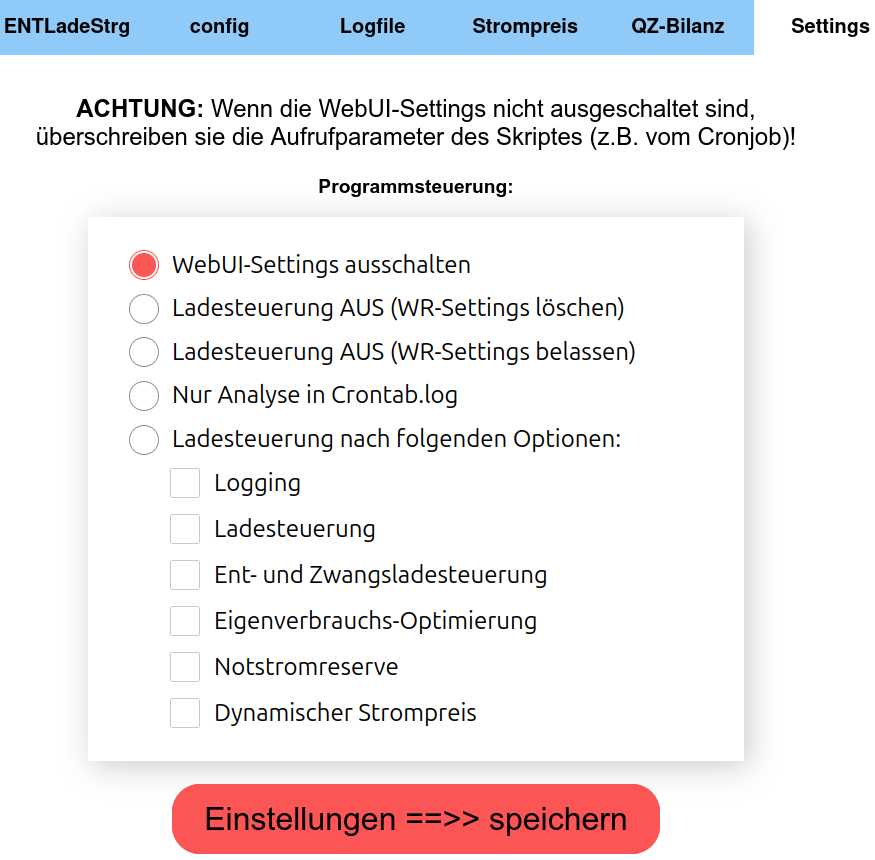
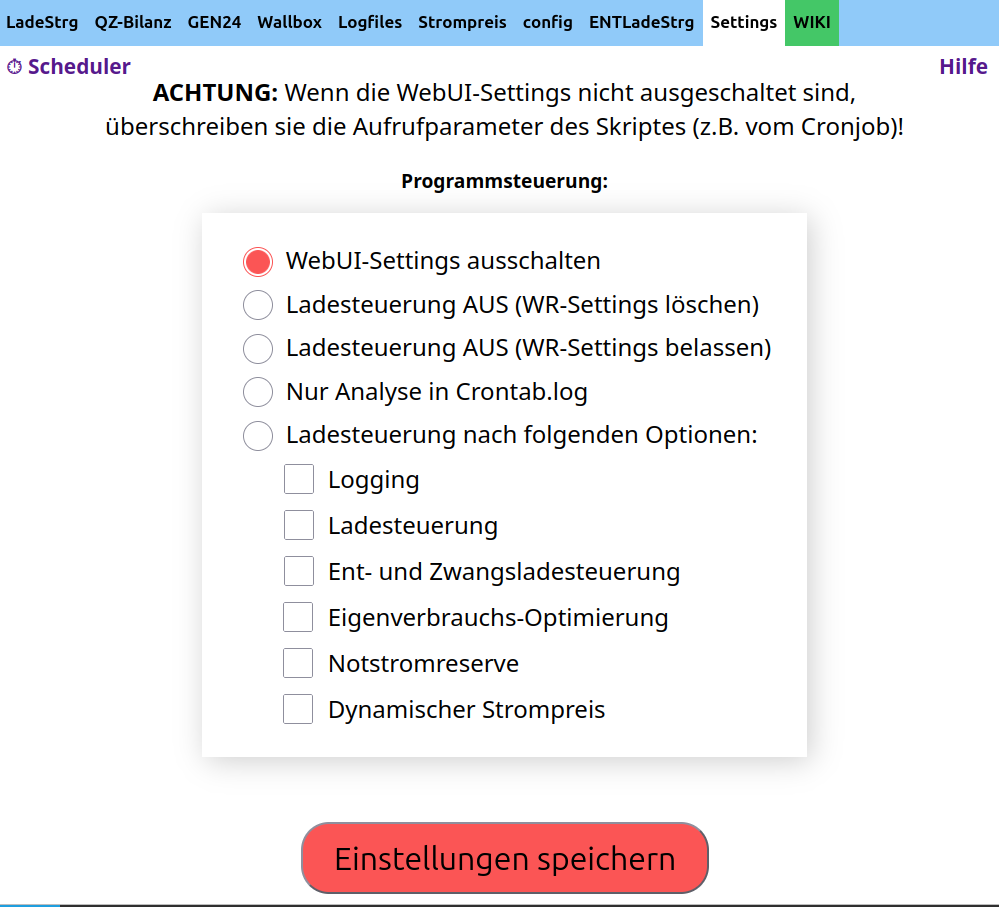
README Anpassung

diff --git a/docs/WIKI/Wallbox.html b/docs/WIKI/Wallbox.html
@@ -15,7 +15,7 @@
 <body lang="de-DE">
 <!--HIERZURUECK--><br>
 
-<p><span class="c1">TAB --&gt;&gt; Wallbox</span></p>
+<p><h2><span class="c1">TAB --&gt;&gt; Wallbox</span></h2></p>
 
 <p><strong>Stand: 20.04.2026<br></strong></p>
 

diff --git a/docs/README.md b/docs/README.md
@@ -43,15 +43,6 @@ Ab Version: **0.41.7**
 Ab Version: **0.41.0**  
 - 🚘 Steuerung des Wattpiloten, über OCPP.  
 
-Ab Version: **0.40.2**  
-- 🔄 Updatefunktion im TAB `config`, wenn das Quellverzeichnis ein Git-Repository ist.  
-
-Ab Version: **0.40.0**  
-- Programm von GEN24 auf Generic Inverter angepasst, um später auch andere Inverter steuern zu können.  
-Es ändert sich der Skriptname `http_SymoGen24Controller2.py` in `EnergyController.py`.  
-⚠️ Die **Cronjobs** und die **default_priv.ini** müssen angepasst werden!!  
-- [WikiExtension_Gen24_Ladesteuerung von @killwack](https://github.com/killwack/WikiExtension_Gen24_Ladesteuerung/wiki)  
-
 ![new](pics/new2.png)  
 
 Die Ladung des Hausakkus erfolgt prognosebasiert und kann mit der Variablen „BatSparFaktor“ in der „CONFIG/charge_priv.ini“ gesteuert werden.  
@@ -142,12 +133,12 @@ In der Entladetabelle können Leistungen in kW zur Steuerung der Akkuentladung, 
 Durch einen negativen Wert in "Feste Entladegrenze" erfolgt die Zwangsladung des Akkus.  
 Hier werden auch die Werte für Zwangsladungen aus dem Netz, oder Ladestopps von DynamicPriceCheck.py eingetragen.  
 
-Weitere Erklärungen stehen in der verlinkten Hilfe oder im [Wiki](https://wiggal.github.io/GEN24_Ladesteuerung/index.html?page=WIKI/HA_README.md)  
+Weitere Erklärungen stehen in der verlinkten Hilfe oder im [Wiki](https://wiggal.github.io/GEN24_Ladesteuerung/index.html?page=WIKI/ENTLadeStrg.html)  
 
 ### 🚘 Wallboxsteuerung
 Das Tool startet einen OCPP-Server, zu dem eine Wallbox (aktuell getestet: Fronius Wattpilot) eine Verbindung als Client herstellen kann.  
 Der TAB `Wallbox` ist standardmäßig ausgeblendet, und kann in der html/config_priv.ini eingeblendet werden.  
-Weitere Erklärungen stehen in der verlinkten Hilfe oder im [Wiki](https://wiggal.github.io/GEN24_Ladesteuerung/index.html?page=WIKI/HA_README.md)  
+Weitere Erklärungen stehen in der verlinkten Hilfe oder im [Wiki](https://wiggal.github.io/GEN24_Ladesteuerung/index.html?page=WIKI/Wallbox.html)  
 
 ![Tabelle zur Wallbox](pics/Wallbox.png)
 
@@ -156,7 +147,7 @@ Weitere Erklärungen stehen in der verlinkten Hilfe oder im [Wiki](https://wigga
 Programmfunktionen:  
 Unter Settings kann das Programm zusätzlich gesteuert werden.  
 
-Weitere Erklärungen stehen in der verlinkten Hilfe oder im [Wiki](https://wiggal.github.io/GEN24_Ladesteuerung/index.html?page=WIKI/HA_README.md)    
+Weitere Erklärungen stehen in der verlinkten Hilfe oder im [Wiki](https://wiggal.github.io/GEN24_Ladesteuerung/index.html?page=WIKI/Settings.html)    
 
 ### Grafana Beispiele  
 ![Beispiele](pics/Grafana.png)
@@ -166,6 +157,13 @@ Eine [Beschreibung](../GRAFANA/Grafana_Installation_readme.pdf) und Dashboarddat
 ----------
 
 **News History:**  
+Ab Version: **0.40.2**  
+- 🔄 Updatefunktion im TAB `config`, wenn das Quellverzeichnis ein Git-Repository ist.  
+Ab Version: **0.40.0**  
+- Programm von GEN24 auf Generic Inverter angepasst, um später auch andere Inverter steuern zu können.  
+Es ändert sich der Skriptname `http_SymoGen24Controller2.py` in `EnergyController.py`.  
+⚠️ Die **Cronjobs** und die **default_priv.ini** müssen angepasst werden!!  
+- [WikiExtension_Gen24_Ladesteuerung von @killwack](https://github.com/killwack/WikiExtension_Gen24_Ladesteuerung/wiki)  
 Ab Version: **0.38.1**  
 Mit eigenem Skript ADDONS/Fremd_API_priv.py können Produktionswerte von fremden Erzeugern geholt und an die EnergyController24 übergeben werden.  
 Ab Version: **0.38.0**  